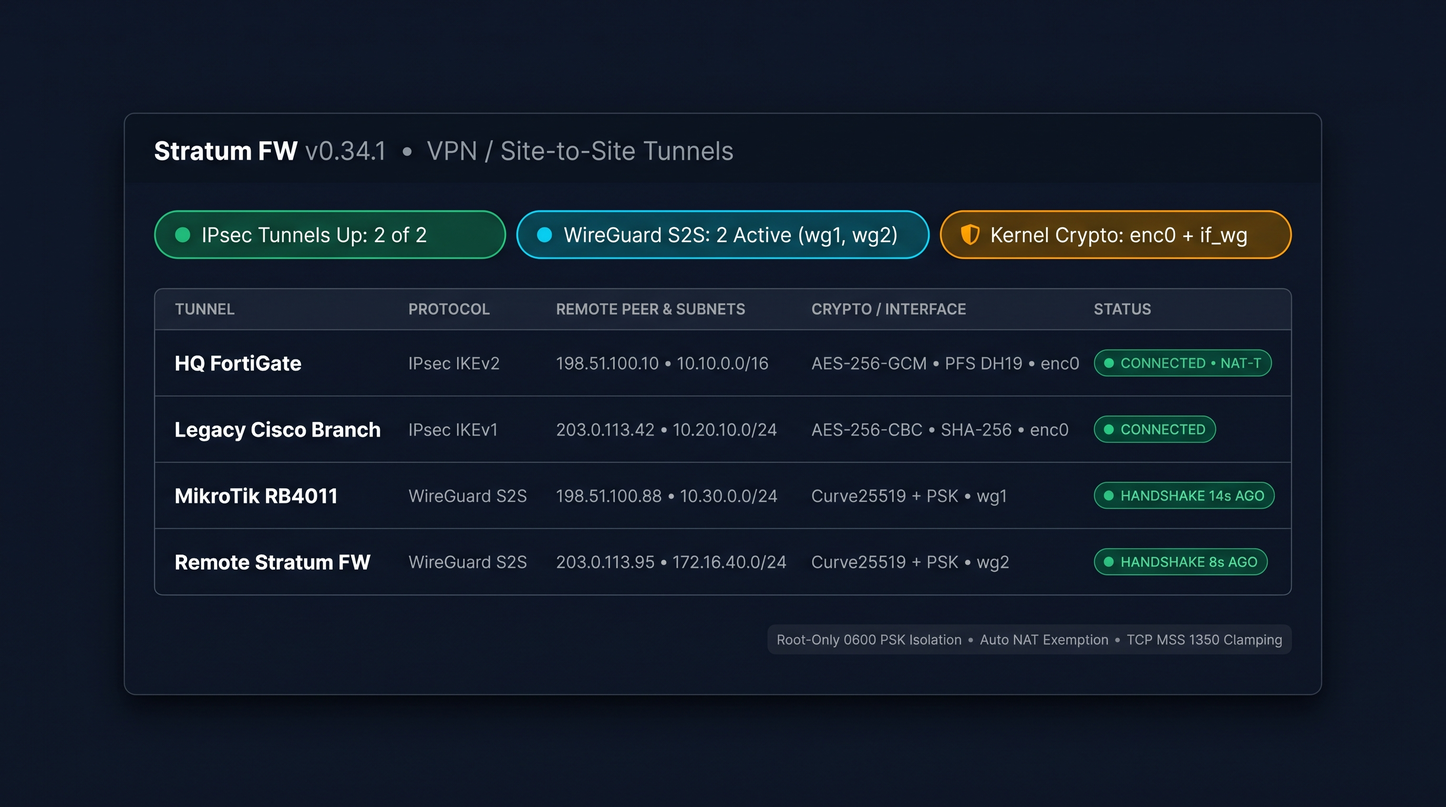
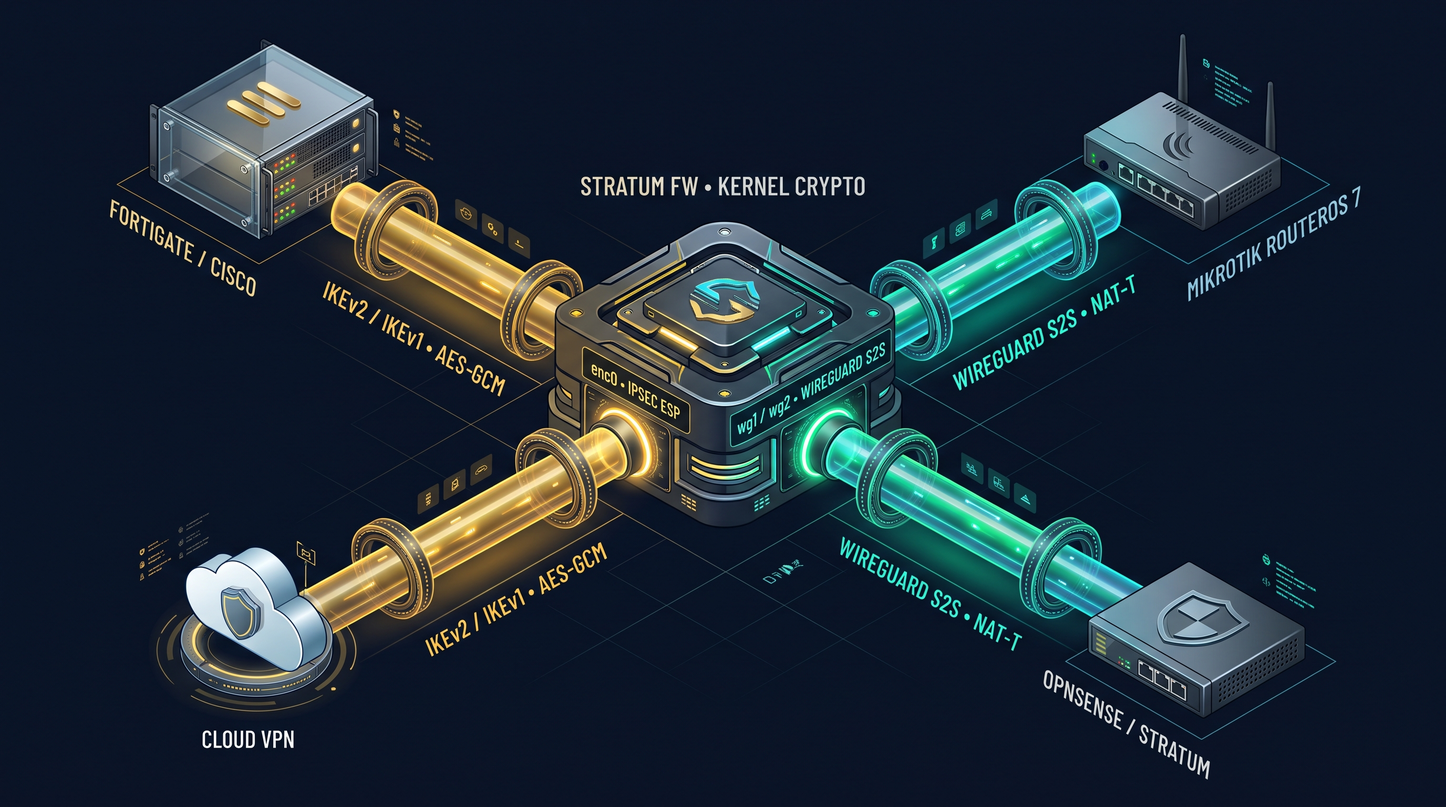
Add v0.35.1 Built-in AI Assistant & Security Guard visuals to README and CHANGELOG

diff --git a/README.md b/README.md
@@ -4,10 +4,10 @@
 
 **Free, Zero-Subscription Network Security & Routing Appliance OS on FreeBSD 15.1-RELEASE, Kernel `pf`, OpenZFS & FastAPI**
 
-[[https://img.shields.io/badge/Live_Demo-demo.stratumfw.com-10b981?style=for-the-badge]](https://demo.stratumfw.com)
-[[https://img.shields.io/badge/Download-v0.34.2_ISO_%26_IMG-f59e0b?style=for-the-badge]](https://stratumfw.com/download/)
-[[https://img.shields.io/badge/Docs-stratumfw.com-0ea5e9?style=for-the-badge]](https://stratumfw.com/product/features/)
-[[https://img.shields.io/badge/Changelog-v0.34.2-6366f1?style=for-the-badge]](./CHANGELOG.md)
+[[https://img.shields.io/badge/Live_Demo-demo.stratumfw.com-38bdf8?style=for-the-badge]](https://demo.stratumfw.com)
+[[https://img.shields.io/badge/AI_Assistant-Read--Only_MCP_%2B_Ollama-f59e0b?style=for-the-badge]](https://stratumfw.com/product/ai-assistant/)
+[[https://img.shields.io/badge/Security_Guard-5--Layer_Defense-fbbf24?style=for-the-badge]](https://stratumfw.com/product/security-guard/)
+[[https://img.shields.io/badge/Release-v0.35.1-6366f1?style=for-the-badge]](./CHANGELOG.md)
 
 <br>
 
@@ -19,47 +19,41 @@
 
 ## Overview
 
-**Stratum Firewall** is a self-contained `amd64` firewall, VPN hub, and UTM gateway built on **FreeBSD 15.1-RELEASE**, stateful `pf`, and **OpenZFS**, managed through an asynchronous **Python 3.12 / FastAPI** web control plane with zero PHP and zero recurring license fees.
+**Stratum Firewall** is a self-contained `amd64` firewall, multi-vendor VPN hub, and layered threat-defense gateway built on **FreeBSD 15.1-RELEASE**, stateful `pf`, and **OpenZFS**, managed through an asynchronous **Python 3.12 / FastAPI** control plane with zero PHP and `$0/year` recurring licensing.
 
-* **Current Release:** `v0.34.2` (November 2026) — [Release Notes & Changelog](./CHANGELOG.md)
+* **Current Release:** `v0.35.1` (November 2026) — [Full Release History (`CHANGELOG.md`)](./CHANGELOG.md)
 * **Interactive Live Demo (Light & Dark UI, no signup):** [https://demo.stratumfw.com](https://demo.stratumfw.com)
 * **Offline VGA `.iso` & Headless `115200 8N1` Serial `.img` Installers:** [https://stratumfw.com/download/](https://stratumfw.com/download/)
-* **Repository Note:** Core FastAPI panel sources remain in a private build tree prior to `v1.0`; this public repository hosts architectural documentation, full release changelogs, and community issue tracking.
+* **Open by Design:** Every generated daemon configuration (`config.json`, `pf.conf`, `swanctl.conf`, `wg*.conf`, `unbound.conf`) lives in plain, auditable text on disk. Core FastAPI panel sources are maintained in a private build tree during pre-`v1.0` iteration and will be published on GitHub.
 
-## Architecture & Visual Highlights
+## New in `v0.35.0 – v0.35.1`: Built-In Read-Only AI Assistant
 
-| Multi-Vendor IPsec & WireGuard S2S Hub | Live S2S Tunnel & Kernel Crypto Telemetry |
+Ask about your firewall in plain natural language under **Diagnostics -> AI Assistant** (*"what was blocked in the last hour and from where?"*, *"is WAN2 healthy?"*, *"is any inside device suspicious?"*):
+
+<p align="center">
+  <img src="./docs/images/ai_ui.jpg" alt="Stratum Firewall Built-in Read-Only AI Assistant" width="100%">
+</p>
+
+| Privacy-by-Design IP Masking & Local Ollama | 5-Layer Security Guard (`$0/Year` Threat Defense) |
+| :---: | :---: |
+| <img src="./docs/images/ai_privacy.jpg" alt="Stratum AI Assistant Privacy Filter and Local Ollama" width="100%"> | <img src="./docs/images/security_guard.jpg" alt="Stratum Security Guard 5-Layer Defense in Depth" width="100%"> |
+
+* **Strictly Read-Only (14 MCP Tools):** Answers from live state using deterministic rule/NAT counts (`all`, `enabled`, `disabled`) and cites every tool executed; **cannot modify any configuration** and points to the exact panel page when changes are desired.
+* **5 AI Providers Incl. Air-Gapped Local `Ollama`:** Supports **Anthropic Claude**, **OpenAI**, **DeepSeek**, **Google Gemini**, and an on-premise **Ollama** server on your LAN where **zero questions or data leave your network**.
+* **Automatic Public IP Aliasing (`PUB-1`):** Masks public IPs before cloud requests and restores real IPs locally in the displayed answer; never exposes passwords, `0600` keys, or VPN configs; holds chats in RAM for 1 hour without writing prompts to disk.
+
+## Multi-Vendor Site-to-Site VPN & Architecture
+
+| Multi-Vendor IPsec (`enc0`) & WireGuard S2S (`wg1+`) | Unified S2S Tunnel & Kernel Crypto Telemetry |
 | :---: | :---: |
 | <img src="./docs/images/s2s_topo.jpg" alt="Multi-Vendor Site-to-Site IPsec and WireGuard Topology" width="100%"> | <img src="./docs/images/s2s_panel.jpg" alt="Live IPsec and WireGuard S2S Status Panel" width="100%"> |
-| **Appliance & Dual-Theme Control Plane** | **3-Tier FreeBSD 15.1 + OpenZFS + FastAPI Stack** |
-| <img src="./docs/images/showcase.jpg" alt="Stratum Firewall Hardware and Dashboard Showcase" width="100%"> | <img src="./docs/images/stack.jpg" alt="Stratum Firewall 3-Tier Architecture Stack" width="100%"> |
 
-## Key Capabilities (`v0.34.2`)
+## Core Capabilities
 
-* **Declarative Single-File Config & 60s Safe-Apply:** Every rule, interface, and VPN change is pre-checked (`pfctl -n`, `unbound-checkconf`, `dnsmasq --test`, `nginx -t`) and applied inside a **60-second anti-lockout rollback window**, with private keys isolated in `0600` root-only files.
-* **Atomic ZFS Boot Environments (`bectl`):** Every online package update or offline `.sfu` upgrade snapshots the root ZFS pool automatically for instant boot-menu or Web UI rollback.
-* **Multi-Vendor Site-to-Site IPsec (`IKEv2` & `IKEv1`):** Policy-based `strongSwan` key negotiation with FreeBSD kernel ESP crypto (`enc0`), multi-subnet Phase 2 selectors, automatic `NAT-T` (UDP `4500`), TCP MSS `1360` clamping, and outbound NAT exemption for FortiGate, Cisco, OPNsense, and cloud VPC gateways.
-* **Dedicated Kernel WireGuard S2S (`wg1, wg2...`) & Mobile VPN (`wg0`):** Isolated per-branch `if_wg` interfaces verified behind NAT against MikroTik RouterOS 7 with hitless `wg syncconf` reloads, alongside QR road-warrior WireGuard and Multi-WAN OpenVPN (EC PKI + `tls-crypt`).
-* **Dual-Engine Suricata 8 IPS/IDS & Hitless Updates:** Per-interface `netmap` inline IPS and `pcap` IDS with zero `igb` hardware offload link flaps during engine reloads or OS updates.
-* **Unbound 1.26 RPZ DNSBL, 55-Category Web Filter & 63 IPv4 Feeds:** Kernel `pf` threat tables, DNS blocklists, Force DNS enforcement (with Active Directory domain exceptions), and unified blocklist analytics at `$0/year`.
-* **30-Day Inter-VLAN & VPN Traffic Matrix:** Rolling 30-day east-west subnet flow matrix (`Diagnostics -> Firewall Log -> Between networks`) across VLANs, `enc0` IPsec, and `wg1+` WireGuard links for confident micro-segmentation.
-* **1-Click OPNsense Migration & Read-Only MCP Server:** Direct `config.xml` import (interfaces, VLANs, `/29` VIPs, aliases, rules, NAT, Unbound DNSBL, full-span DHCP pools, and OpenVPN PKI), local-QR TOTP 2FA, encrypted `.stbk` SFTP backups, and a 14-tool read-only Model Context Protocol (MCP) telemetry server.
-
-## System Architecture
-
-| Layer | Component |
-| :--- | :--- |
-| **Operating System** | FreeBSD 15.1-RELEASE (`amd64`), OpenZFS root, `bectl` Boot Environments |
-| **Packet Filter & QoS** | Stateful FreeBSD `pf`, radix tables, policy routing, 1:1 NAT, time schedules |
-| **Control Plane** | Asynchronous Python 3.12, FastAPI, Jinja2, Uvicorn behind hardened Nginx |
-| **VPN & Crypto** | Kernel ESP (`enc0`) + `strongSwan` (`IKEv2`/`IKEv1`), Kernel `if_wg` (`wg0` + `wg1+` S2S), OpenVPN |
-| **Threat & DNS Stack** | Suricata 8 (`netmap` + `pcap`), Unbound 1.26 RPZ, `dnsmasq`, 63 IPv4 blocklists |
-| **Installers & Updates** | Offline VGA `.iso`, Headless Serial `.img` (`115200 8N1`), signed FreeBSD `pkg` repo & `.sfu` bundles |
-
-## Latest Engineering Articles
-
-* **EN:** [Stratum Firewall v0.34.2: Site-to-Site IPsec, Dedicated WireGuard S2S, 30-Day VLAN Traffic Matrix, and Hitless Suricata Updates](https://stratumfw.com/blog/stratum-firewall-v0-34-1-ipsec-wireguard-s2s-vlan-matrix-hitless-suricata/)
-* **TR:** [Stratum Firewall v0.34.2: Merkezden Şubeye IPsec, Adanmış WireGuard S2S, 30 Günlük VLAN Trafik Matrisi ve Kesintisiz Suricata Güncellemeleri](https://stratumfw.com/tr/blog/stratum-firewall-v0-34-1-ipsec-wireguard-s2s-vlan-matrisi-kesintisiz-suricata/)
+* **Security Guard (5 Included Threat Layers):** **63** bidirectional `pf` IP reputation feeds (`Spamhaus DROP`, `abuse.ch Feodo`, `Emerging Threats`), **5-RIR** weekly GeoIP country rules, **93** Unbound DNSBL feeds, **56** daily UT1 Web Filter categories with Force DNS + Safe Search, and **52** Suricata `Emerging Threats Open` IPS/IDS rule sets (`netmap` inline fail-open).
+* **Zero Custom Cryptography (`v0.34.2+`):** WireGuard runs in the FreeBSD kernel (`if_wg`), IPsec (`IKEv2` & `IKEv1`) runs via `strongSwan` + FreeBSD kernel ESP (`enc0`), and keys/certificates are generated with **OpenSSL** (`Python cryptography`).
+* **60s Safe-Apply & Atomic ZFS Rollback:** Every change runs pre-flight syntax tests (`pfctl -n`, `nginx -t`, `unbound-checkconf`, `dnsmasq --test`, `sshd -t`) and rolls back automatically if unconfirmed within 60 seconds; every signed online or offline (`.sfu`) update creates a bootable OpenZFS Boot Environment (`bectl`).
+* **30-Day Inter-VLAN Matrix & 1-Click OPNsense Import:** Rolling 30-day `Between networks` flow matrix across VLANs, IPsec, and WireGuard S2S; direct OPNsense `config.xml` + OpenVPN PKI + Unbound DNSBL + full-span DHCP migration; encrypted `.stbk` SFTP backups; local-QR TOTP 2FA.
 
 ## Security & Vulnerability Disclosure
 
